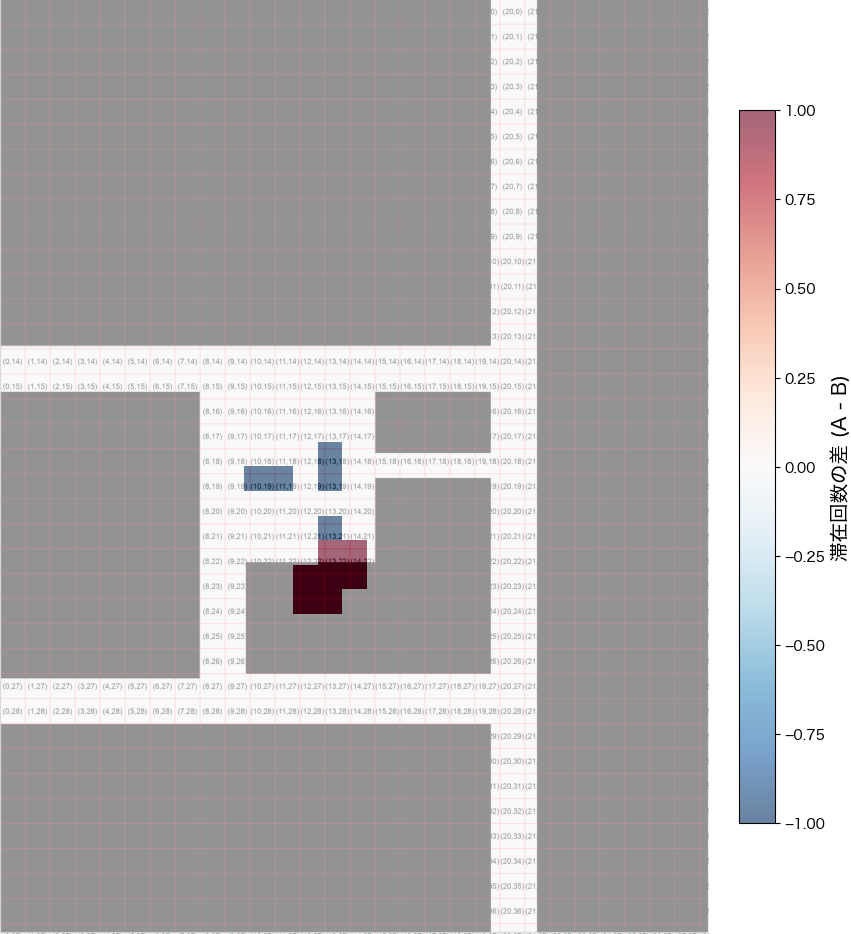
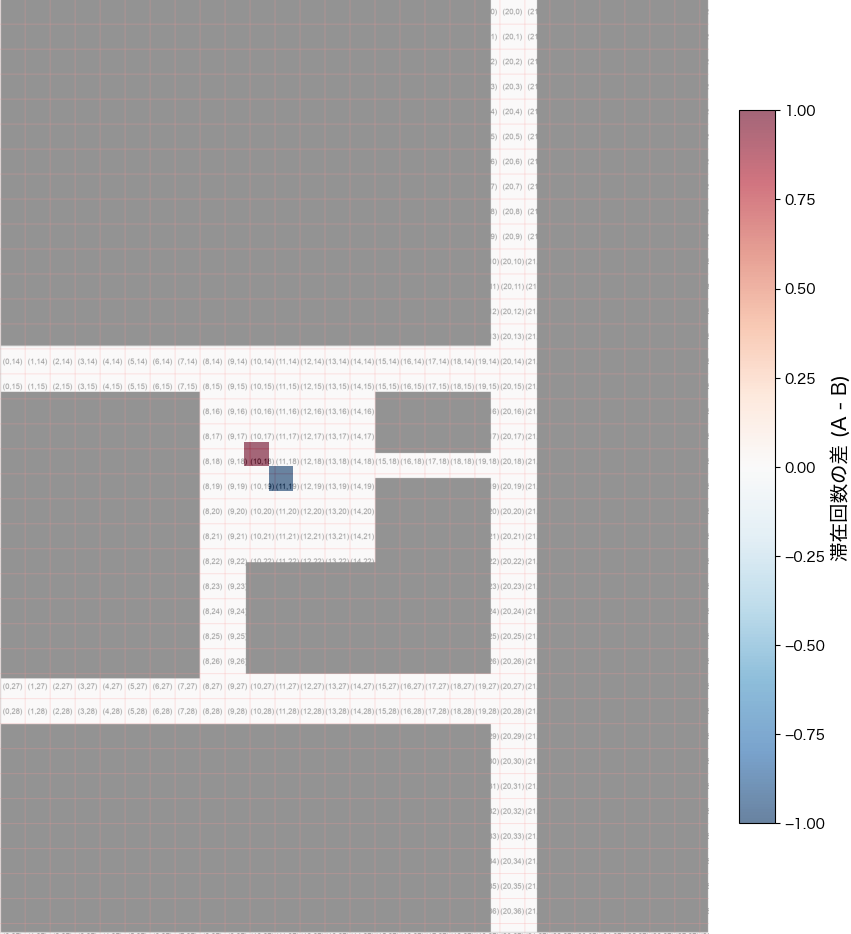
[add] ヒートマップ生成機能を追加し、単体ヒートマップの可視化を実装

Changed region(s): [[0.3361, 0.4657, 0.4583, 0.6831], [0.275, 0.4657, 0.3361, 0.5278]]

diff --git a/src/visualize_trajectory.py b/src/visualize_trajectory.py
@@ -1,8 +1,9 @@
 import matplotlib.pyplot as plt
 import pandas as pd
+import os
 
 
-def visualize_trajectory(df, background_image, map_width, map_height):
+def visualize_trajectory(df_list, background_image, map_width, map_height,output_dir="output"):
     """
     複数の軌跡データフレームを結合し、背景画像上にプロットして保存する。
 
@@ -12,42 +13,39 @@ def visualize_trajectory(df, background_image, map_width, map_height):
         map_width (int): マップの幅 (ピクセル)。
         map_height (int): マップの高さ (ピクセル)。
     """
-    if df.empty or 'x_final' not in df or 'y_final' not in df:
-        print("有効なデータがないため、プロットをスキップします。")
+    for i, df in enumerate(df_list):
+        if df.empty or 'x_final' not in df or 'y_final' not in df:
+            print(f"有効なデータがないため、プロットをスキップします。 index={i}")
+            continue
+        
+        fig, ax = plt.subplots(figsize=(map_width / 100, map_height / 100), dpi=100)
+        ax.imshow(background_image, extent=[0, map_width, map_height, 0])
 
-        return
-
-    # プロットの準備
-    fig, ax = plt.subplots(figsize=(map_width / 100, map_height / 100), dpi=100)
-    ax.imshow(background_image, extent=[0, map_width, map_height, 0])
-
-    # 'stay'の値でデータをフィルタリング
-
-    # 'stay'の値でデータをフィルタリング（欠損値も除去）
-    df_filtered = df.dropna(subset=['x_final', 'y_final', 'stay'])
-    stay_true = df_filtered[df_filtered['stay'] == True]
-    stay_false = df_filtered[df_filtered['stay'] == False]
-
- # stayの値で色分けして散布図をプロット
- 
-    if not stay_false.empty:
-        ax.scatter(stay_false['x_final'], stay_false['y_final'], 
-                   c='blue', s=50, label='stay = False (移動中)', zorder=2, alpha=0.6)
-    if not stay_true.empty:
-        ax.scatter(stay_true['x_final'], stay_true['y_final'], 
-                   c='red', s=50, label='stay = True (滞在中)', zorder=3, alpha=0.6)
-    # グラフの装飾
-    ax.set_title('全軌跡のマッピング結果', fontsize=18)
-    ax.set_xlabel('幅[px]', fontsize=14)
-    ax.set_ylabel('高さ[px]', fontsize=14)
-    ax.set_xlim(0, map_width)
-    ax.set_ylim(map_height, 0)
+        # 'stay'の値でデータをフィルタリング（欠損値も除去）
+        df_filtered = df.dropna(subset=['x_final', 'y_final', 'stay'])
+        stay_true = df_filtered[df_filtered['stay'] == True]
+        stay_false = df_filtered[df_filtered['stay'] == False]
+        # stayの値で色分けして散布図をプロット
     
-    # プロットされたデータがある場合のみ凡例を表示
-    if not stay_true.empty or not stay_false.empty:
-        ax.legend(fontsize=12)
+        if not stay_false.empty:
+            ax.scatter(stay_false['x_final'], stay_false['y_final'], 
+                    c='blue', s=50, label='stay = False (移動中)', zorder=2, alpha=0.6)
+        if not stay_true.empty:
+            ax.scatter(stay_true['x_final'], stay_true['y_final'], 
+                    c='red', s=50, label='stay = True (滞在中)', zorder=3, alpha=0.6)
+        # グラフの装飾
+        ax.set_title(f'全軌跡のマッピング結果 {i+1}', fontsize=18)
+        ax.set_xlabel('幅[px]', fontsize=14)
+        ax.set_ylabel('高さ[px]', fontsize=14)
+        ax.set_xlim(0, map_width)
+        ax.set_ylim(map_height, 0)
+        
+        # プロットされたデータがある場合のみ凡例を表示
+        if not stay_true.empty or not stay_false.empty:
+            ax.legend(fontsize=12)
 
-    # レイアウトを整えて表示
-    fig.tight_layout()
-    plt.savefig('output/全軌跡のマッピング結果.png', dpi=300)
-    # plt.show()
+        # レイアウトを整えて表示
+        fig.tight_layout()
+        out_path = os.path.join(output_dir, f"trajectory_{i+1}.png")
+        plt.savefig(out_path, dpi=300)
+        plt.close(fig)

diff --git a/src/main.py b/src/main.py
@@ -6,6 +6,7 @@ from calculate_stay_time import calculate_stay_time
 from calculate_stay_count import calculate_stay_count
 from visualize_and_save_heatmap import visualize_and_save_heatmap
 from visualize_trajectory import visualize_trajectory
+from create_single_heatmap import create_single_heatmap
 
 from generate_heatmap_data import generate_heatmap_data
 from create_diff_heatmap import create_diff_heatmap
@@ -36,54 +37,54 @@ if __name__ == '__main__':
     
     # # 3. 処理対象の軌跡データと、それに対応する変換パラメータを設定
     TRAJECTORY_FILE_PATHS_A = [
-        "./grid/data/threshold_trajectory_data.csv",
-        "./speed/slowly/data/threshold_trajectory_data.csv",
+        "./part/1_straight_sit_quick/data/threshold_trajectory_data.csv",
+
     ] 
 
     TRANSFORM_PARAMS_A = [
-
-       {
-            'scale': 1.0,         #x 1mあたり1pxに変換
-            'angle_deg': 180.0,     # 180度回転
-            'initial_position': (14, 21) # 軌跡の開始地点
-        },
         {
             'scale': 1.0,         #x 1mあたり1pxに変換
-            'angle_deg':180.0,     # 180度回転
-            'initial_position': (8, 21) # 軌跡の開始
+            'angle_deg':-90.0,     
+            'initial_position': (10, 21) # 軌跡の開始
         },
+
     ]
 
-    TRAJECTORY_FILE_PATHS_B = [
-        "./part/1_straight_sit_quick/data/threshold_trajectory_data.csv",
-        "./part/2_straight_quick_sit/data/threshold_trajectory_data.csv",
+    TRAJECTORY_FILE_PATHS_B = [       
         "./part/3_straight_sit/data/threshold_trajectory_data.csv" 
     ] 
  
 
     # 座標変換パラメータ
     TRANSFORM_PARAMS_B = [
- 
-        {
-            'scale': 1.0,         #x 1mあたり1pxに変換
-            'angle_deg':-90.0,     
-            'initial_position': (10, 21) # 軌跡の開始
-        },
-        {
-            'scale': 1.0,         #x 1mあたり1pxに変換
-            'angle_deg':-90.0,     
-            'initial_position': (12, 21) # 軌跡の開始
-        },
+
         {
             'scale': 1.0,         #x 1mあたり1pxに変換
             'angle_deg':180.0,     
             'initial_position': (10, 21) # 軌跡の開始
         },
-
     ]
+    print(len(TRAJECTORY_FILE_PATHS_A))
+    print(len(TRAJECTORY_FILE_PATHS_B))
     
     heatmap_A = generate_heatmap_data(TRAJECTORY_FILE_PATHS_A, TRANSFORM_PARAMS_B,grid_data, background_image, num_grids_x, num_grids_y,calc_mode='count')    
     heatmap_B = generate_heatmap_data(TRAJECTORY_FILE_PATHS_B, TRANSFORM_PARAMS_B,grid_data, background_image, num_grids_x, num_grids_y,calc_mode='count',) 
+
+    ## グループAの単体ヒートマップを可視化
+    create_single_heatmap(
+        heatmap_data=heatmap_A,
+        background_image=background_image,
+        output_path="./output/heatmap_A.png",
+        colorbar_label="グループAの滞在回数"    
+    )
+    ## グループBの単体ヒートマップを可視化
+    create_single_heatmap(
+        heatmap_data=heatmap_B,
+        background_image=background_image,
+        output_path="./output/heatmap_B.png",
+        colorbar_label="グループBの滞在回数"    
+    )
+
 
     create_diff_heatmap(
         heatmap_data_A=heatmap_A,

diff --git a/src/generate_heatmap_data.py b/src/generate_heatmap_data.py
@@ -4,6 +4,7 @@ from calculate_stay_time import calculate_stay_time
 from calculate_stay_count import calculate_stay_count
 from visualize_trajectory import visualize_trajectory
 
+
 import	numpy as np
 import matplotlib.pyplot as plt
 import pandas as pd
@@ -15,6 +16,7 @@ GRID_SIZE_PX = 100
 def generate_heatmap_data(file_paths, transform_params_list, grid_data, background_image, num_grids_x, num_grids_y,calc_mode='count',):    
 	 # 全軌跡の値を合算するための配列をゼロで初期化
     total_values = np.zeros((num_grids_y, num_grids_x))
+    transformed_list = []
     
     for file_path, transform_params in zip(file_paths, transform_params_list):
         df_trajectory = load_trajectory_data(file_path)
@@ -31,13 +33,8 @@ def generate_heatmap_data(file_paths, transform_params_list, grid_data, backgrou
     		MAP_WIDTH_PX,
     		MAP_HEIGHT_PX
         )
-
-        visualize_trajectory(
-            df=df_transformed,
-            background_image=background_image,
-            map_width=MAP_WIDTH_PX,
-            map_height=MAP_HEIGHT_PX
-        )
+        
+        transformed_list.append(df_transformed)
 
         if calc_mode == 'time':
                 # 滞在時間の計算
@@ -62,6 +59,14 @@ def generate_heatmap_data(file_paths, transform_params_list, grid_data, backgrou
             col, row = grid_id
             if 0 <= row < total_values.shape[0] and 0 <= col < total_values.shape[1]:
                 total_values[row, col] += value
-    
+                
+		 
+        visualize_trajectory(
+            df_list=transformed_list,
+            background_image=background_image,
+            map_width=MAP_WIDTH_PX,
+            map_height=MAP_HEIGHT_PX,
+            output_dir="output"
+        )
                 
     return total_values

diff --git a/src/create_single_heatmap.py b/src/create_single_heatmap.py
@@ -1,4 +1,4 @@
-import	numpy as np
+import  numpy as np
 from matplotlib.colors import Normalize
 import matplotlib.pyplot as plt
 
@@ -6,23 +6,16 @@ MAP_WIDTH_PX = 2837
 MAP_HEIGHT_PX = 3742
 GRID_SIZE_PX = 100
 
-def create_diff_heatmap(heatmap_data_A, heatmap_data_B, background_image, output_path, colorbar_label="差分"):
-    
-    
-
-    # 差分データを計算
-    diff_data = heatmap_data_A - heatmap_data_B
-    
-    # 色の範囲を0を中心に左右対称にする
-    vmax = np.abs(diff_data).max()
-    norm = Normalize(vmin=-vmax, vmax=vmax)
+def create_single_heatmap(heatmap_data, background_image, output_path, colorbar_label="滞在回数"):
+    """単体のヒートマップデータを可視化し、保存する関数"""
     
     # ヒートマップの描画
     fig, ax = plt.subplots(figsize=(10, 15))
     ax.imshow(background_image, extent=(0, MAP_WIDTH_PX, MAP_HEIGHT_PX, 0))
     
     # alphaで透明度を設定して重ねる
-    im = ax.imshow(diff_data, cmap='RdBu_r', norm=norm, alpha=0.6, 
+    # cmapには単体の量を表すのに適した 'Reds' や 'viridis' などを指定
+    im = ax.imshow(heatmap_data, cmap='Reds', alpha=0.6, 
                    extent=(0, MAP_WIDTH_PX, MAP_HEIGHT_PX, 0))
     
     # カラーバーとラベルの設定
@@ -30,7 +23,7 @@ def create_diff_heatmap(heatmap_data_A, heatmap_data_B, background_image, output
     cbar.set_label(colorbar_label, fontsize=14)
     
     ax.axis('off')
+    
     plt.savefig(output_path, bbox_inches='tight', pad_inches=0)
     plt.close(fig)
-    print(f"差分ヒートマップを {output_path} に保存しました。")
-    
+    print(f"単体ヒートマップを {output_path} に保存しました。")
